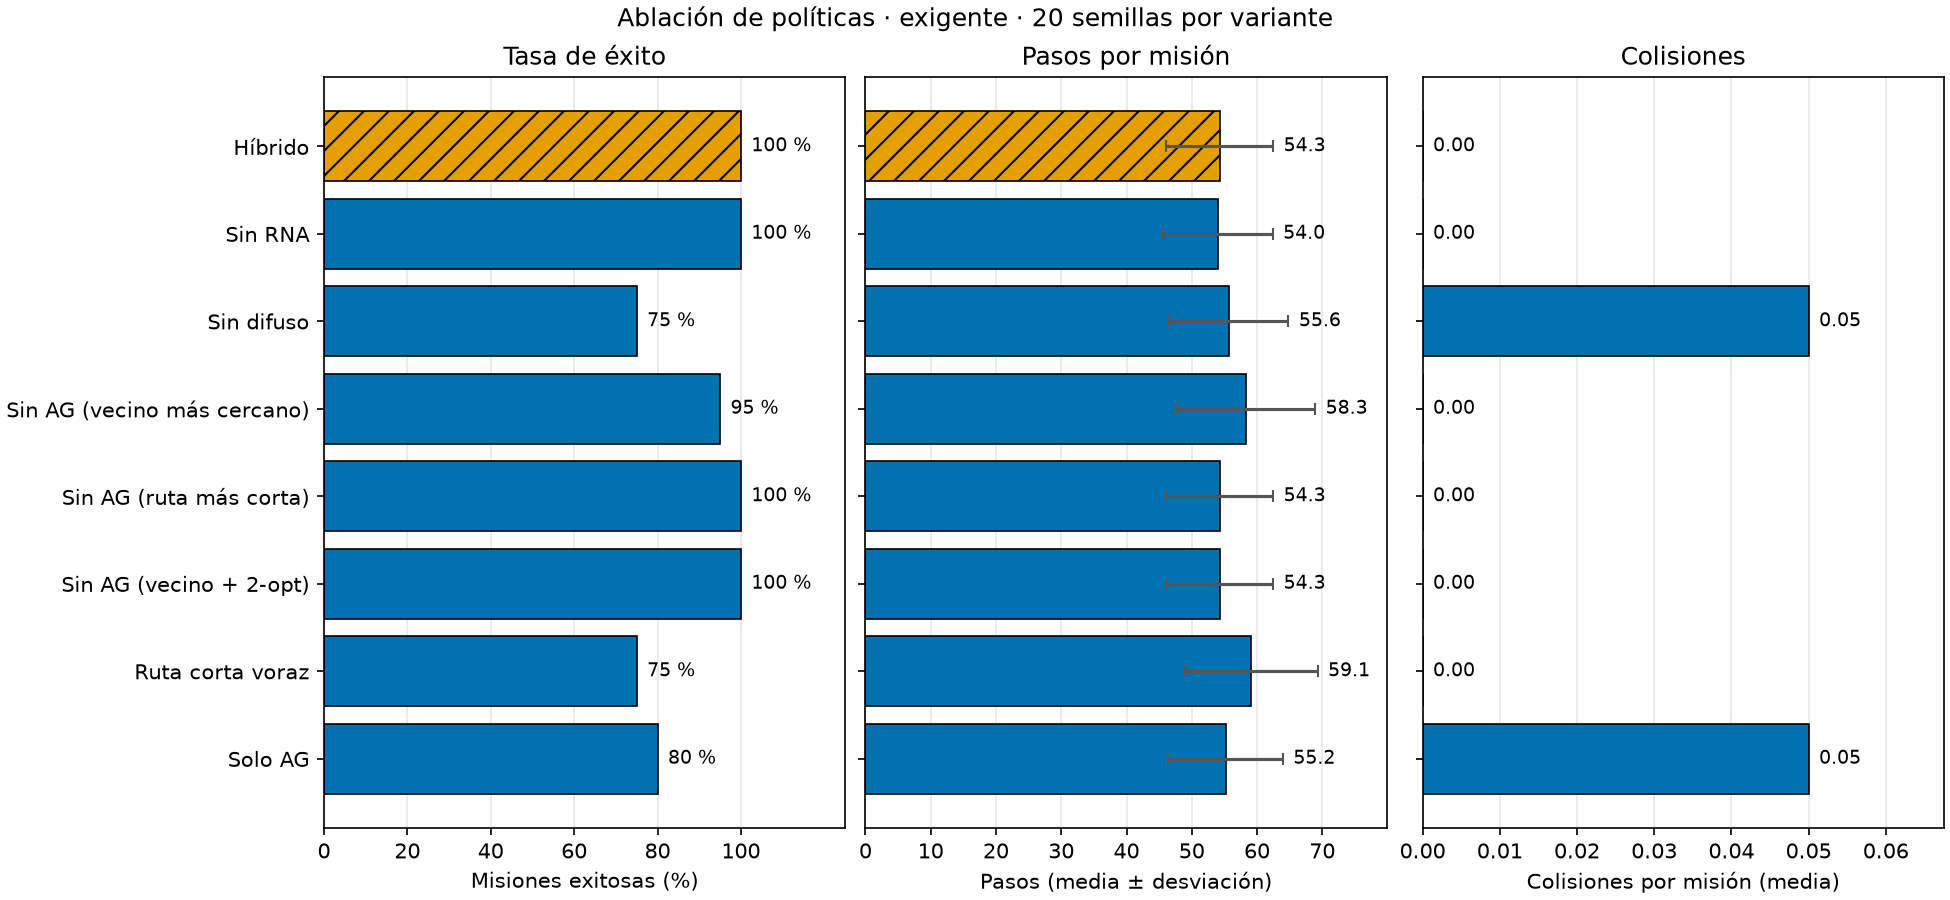
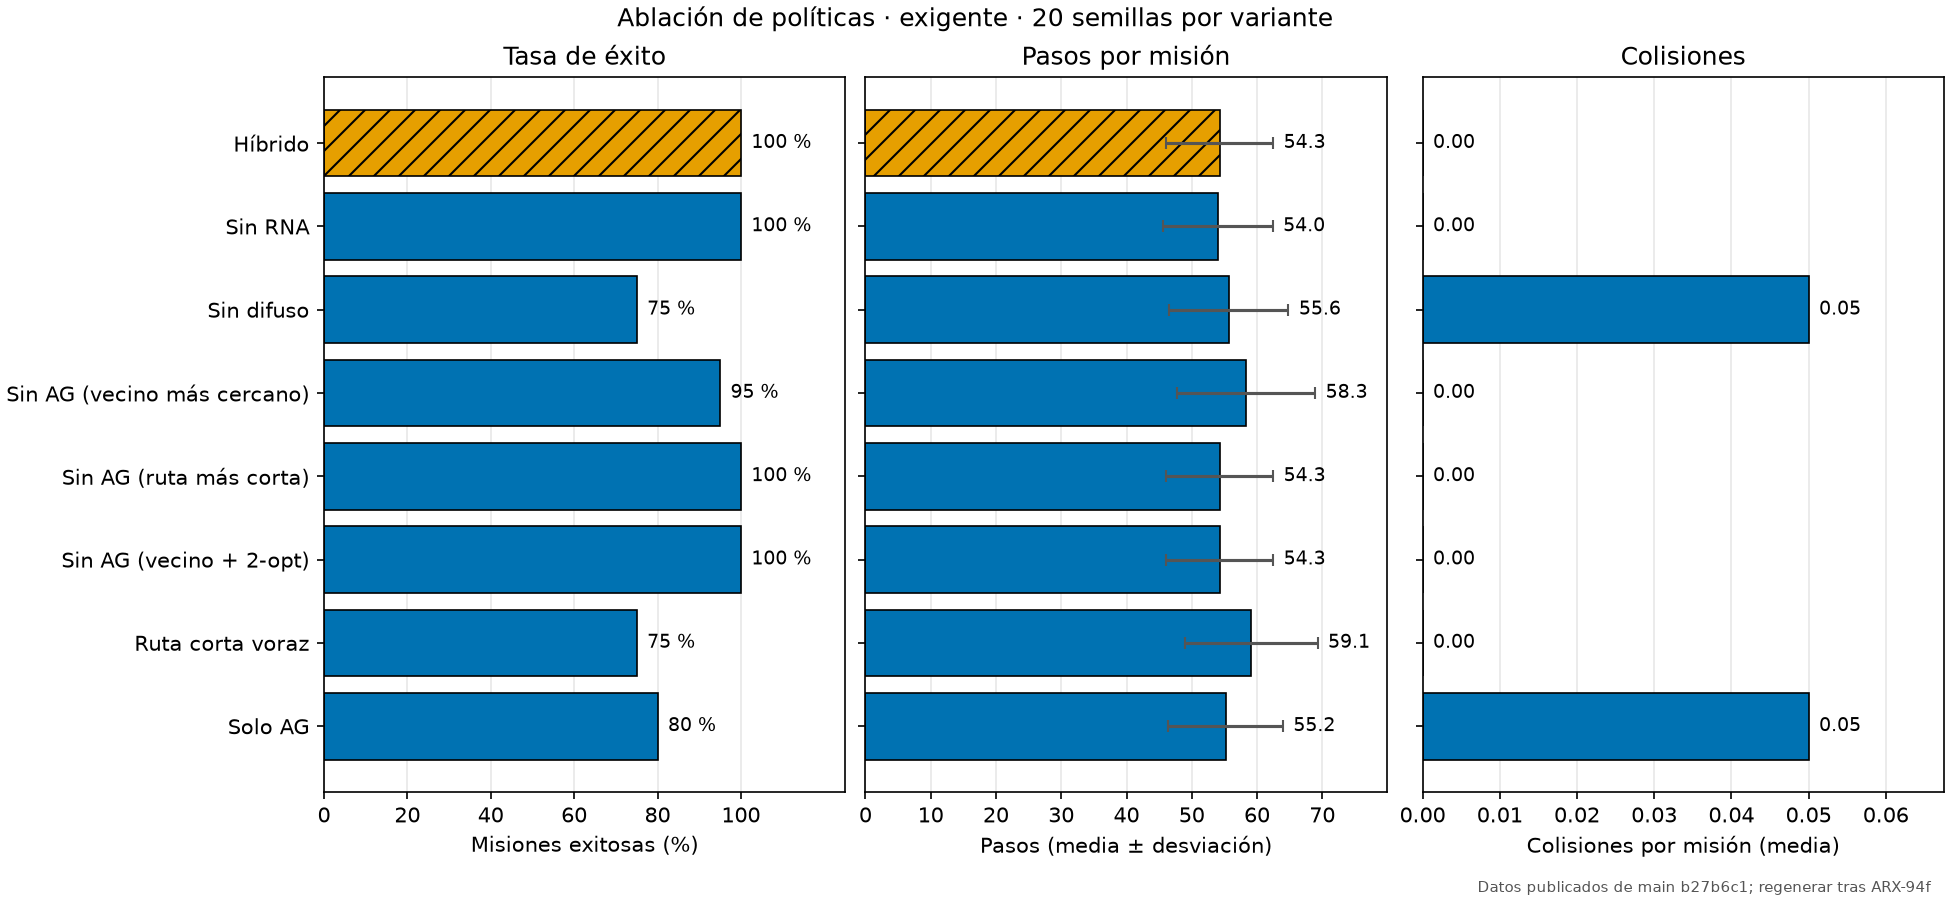
Figuras: pie con la versión de main, --version, plan ARX-100 y PNG regenerados

diff --git a/scripts/generar_figuras.py b/scripts/generar_figuras.py
@@ -1,12 +1,15 @@
 """Genera docs/figuras/matriz_confusion.png y docs/figuras/ablacion.png.
 
-Uso (desde ares_x/):  python scripts/generar_figuras.py [escenario]
+Uso (desde ares_x/):  python scripts/generar_figuras.py [escenario] [--version HASH]
+Cada figura lleva un pie con la versión de main con que se generó (por defecto, git rev-parse --short main).
 La ablación sale de docs/COMPARACION_POLITICAS[_<escenario>].json (sin escenario: el exigente). La matriz de confusión
 se calcula con la misma configuración del notebook (60 mapas, 400 muestras por mapa, semilla 42), generando los mapas
 de a uno y en un solo hilo, y se evalúa en los mapas de prueba.
 """
+import argparse
 import json
 import os
+import subprocess
 import sys
 
 os.environ.setdefault("OMP_NUM_THREADS", "1")
@@ -28,25 +31,44 @@ def _por_mapa(semillas):
     return np.vstack([p[0] for p in partes]), np.concatenate([p[1] for p in partes])
 
 
-def figura_matriz():
+def version_de_main():
+    """Hash corto de main; «versión desconocida» si git no está disponible."""
+    try:
+        r = subprocess.run(["git", "rev-parse", "--short", "main"], cwd=RAIZ, capture_output=True, text=True, timeout=10)
+        return r.stdout.strip() if r.returncode == 0 and r.stdout.strip() else "versión desconocida"
+    except (OSError, subprocess.SubprocessError):
+        return "versión desconocida"
+
+
+def _pie(version):
+    return f"Datos publicados de main {version}; regenerar tras ARX-94f" if version != "versión desconocida"         else "Datos publicados: versión desconocida; regenerar tras ARX-94f"
+
+
+def figura_matriz(version):
     tr, _, te = particion_por_mapas(total_mapas=60)
     X_tr, y_tr = _por_mapa(tr)
     X_te, y_te = _por_mapa(te)
     res = NeuralPerception(semilla=42).entrenar(X_tr, y_tr).evaluar(X_te, y_te)
     return plot_matriz_confusion(res.matriz_confusion, list(CLASES.values()),
-                                 titulo=f"Matriz de confusión de la RNA (prueba: {len(te)} mapas)")
+                                 titulo=f"Matriz de confusión de la RNA (prueba: {len(te)} mapas)", pie=_pie(version))
 
 
-def figura_ablacion(escenario="exigente"):
+def figura_ablacion(escenario, version):
     nombre = "COMPARACION_POLITICAS.json" if escenario == "base" else f"COMPARACION_POLITICAS_{escenario}.json"
     with open(os.path.join(RAIZ, "docs", nombre), encoding="utf-8") as f:
         datos = json.load(f)
-    return plot_ablacion(datos["variantes"], escenario=datos.get("escenario"))
+    return plot_ablacion(datos["variantes"], escenario=datos.get("escenario"), pie=_pie(version))
 
 
 if __name__ == "__main__":
-    escenario = sys.argv[1] if len(sys.argv) > 1 else "exigente"
+    ap = argparse.ArgumentParser(description=__doc__.splitlines()[0])
+    ap.add_argument("escenario", nargs="?", default="exigente")
+    ap.add_argument("--version", default=None, help="hash de main que se escribe en el pie")
+    a = ap.parse_args()
+    version = a.version or version_de_main()
     os.makedirs(SALIDA, exist_ok=True)
-    for nombre, fig in (("matriz_confusion.png", figura_matriz()), ("ablacion.png", figura_ablacion(escenario))):
+    for nombre, hacer in (("matriz_confusion.png", lambda: figura_matriz(version)),
+                          ("ablacion.png", lambda: figura_ablacion(a.escenario, version))):
+        fig = hacer()
         fig.savefig(os.path.join(SALIDA, nombre), dpi=150)
         print("Escrito:", os.path.join("docs", "figuras", nombre))

diff --git a/viz.py b/viz.py
@@ -26,7 +26,13 @@ ROTULOS_VARIANTES = {
 }
 
 
-def plot_matriz_confusion(matriz, etiquetas, titulo="Matriz de confusión de la RNA"):
+def _pie(fig, pie):
+    if pie:
+        fig.get_layout_engine().set(rect=(0, 0.04, 1, 0.96))  # deja sitio al pie
+        fig.text(0.99, 0.005, pie, ha="right", va="bottom", fontsize=7, color="#555555")
+
+
+def plot_matriz_confusion(matriz, etiquetas, titulo="Matriz de confusión de la RNA", pie=None):
     """Matriz de confusión con conteos y porcentaje por fila (real). Filas = clase real, columnas = predicha."""
     arr = np.asarray(matriz, dtype=float)
     if arr.ndim != 2 or arr.shape[0] != arr.shape[1] or arr.shape[0] != len(etiquetas):
@@ -49,6 +55,7 @@ def plot_matriz_confusion(matriz, etiquetas, titulo="Matriz de confusión de la 
             color = "white" if pct[i, j] > 0.5 else "black"
             ax.text(j, i, f"{int(arr[i, j])}\n{pct[i, j] * 100:.1f} %", ha="center", va="center",
                     color=color, fontsize=11, fontweight="bold" if i == j else "normal")
+    _pie(fig, pie)
     return fig
 
 
@@ -56,7 +63,7 @@ def _rotulo(variante):
     return ROTULOS_VARIANTES.get(variante, str(variante).replace("_", " ").capitalize())
 
 
-def plot_ablacion(variantes, escenario=None):
+def plot_ablacion(variantes, escenario=None, pie=None):
     """Compara variantes: tasa de éxito, pasos y colisiones por misión.
 
     `variantes` es el diccionario publicado en la comparación de políticas: nombre -> {tasa_exito, n,
@@ -102,4 +109,5 @@ def plot_ablacion(variantes, escenario=None):
     sub = f" · {escenario}" if escenario else ""
     n_txt = f" · {ns.pop()} semillas por variante" if len(ns) == 1 else ""
     fig.suptitle(f"Ablación de políticas{sub}{n_txt}")
+    _pie(fig, pie)
     return fig

diff --git a/tests/test_viz.py b/tests/test_viz.py
@@ -77,3 +77,9 @@ def test_ablacion_ceros_y_vacio_no_fallan():
     fig = plot_ablacion({})
     assert "Sin datos de ablación" in _textos(fig)
     assert plot_ablacion({"otra_variante": {}}).axes[0].get_yticklabels()[0].get_text() == "Otra variante"
+
+
+def test_pie_de_version_en_ambas_figuras():
+    pie = "Datos publicados de main abc1234; regenerar tras ARX-94f"
+    assert pie in [t.get_text() for t in plot_matriz_confusion([[1, 0], [0, 1]], ["a", "b"], pie=pie).texts]
+    assert pie in [t.get_text() for t in plot_ablacion(_variantes(), pie=pie).texts]

diff --git a/docs/planes/ARX-100_figuras.md b/docs/planes/ARX-100_figuras.md
@@ -1,0 +1,17 @@
+# ARX-100 · Figuras 2D del informe (matriz de confusión y ablación)
+
+**Estado:** implementado en la rama `feat/viz-figuras`; pendiente de integrar.
+
+**Qué hace.** `viz.py` tiene dos funciones puras (`plot_matriz_confusion`, `plot_ablacion`) que reciben datos y devuelven
+la figura. `scripts/generar_figuras.py` lee `docs/COMPARACION_POLITICAS_exigente.json`, calcula la evaluación de la RNA
+(60 mapas, 400 muestras por mapa, semilla 42, un mapa a la vez y a un hilo) y escribe `docs/figuras/matriz_confusion.png`
+y `docs/figuras/ablacion.png`. El notebook las muestra con una celda que solo actúa si los archivos existen.
+
+**Cómo regenerar** (desde `ares_x/`):
+`OMP_NUM_THREADS=1 python scripts/generar_figuras.py [escenario] [--version HASH]`.
+Sin `--version`, el pie toma `git rev-parse --short main`; sin git, escribe «versión desconocida».
+
+**Regenerar tras 94f.** Las cifras publicadas cambian con el rediseño de sensores (ARX-94f): hay que volver a ejecutar el
+script y reemplazar los PNG. Texto alternativo en `docs/figuras/LEYENDA.md`.
+
+**Pruebas:** `python -m pytest tests/test_viz.py`.

diff --git a/docs/figuras/LEYENDA.md b/docs/figuras/LEYENDA.md
@@ -20,3 +20,8 @@ corta voraz también a 75 %; sin la RNA se mantiene en 100 %.
 
 Colores: paleta Okabe-Ito (naranja `#E69F00` y azul `#0072B2`), distinguible con daltonismo; ningún dato depende solo
 del color.
+
+## Versión de los datos
+
+Cada PNG lleva al pie «Datos publicados de main <hash>; regenerar tras ARX-94f». Hay que regenerarlas tras ARX-94f,
+porque las cifras publicadas cambian con el rediseño de sensores. Ver `docs/planes/ARX-100_figuras.md`.
